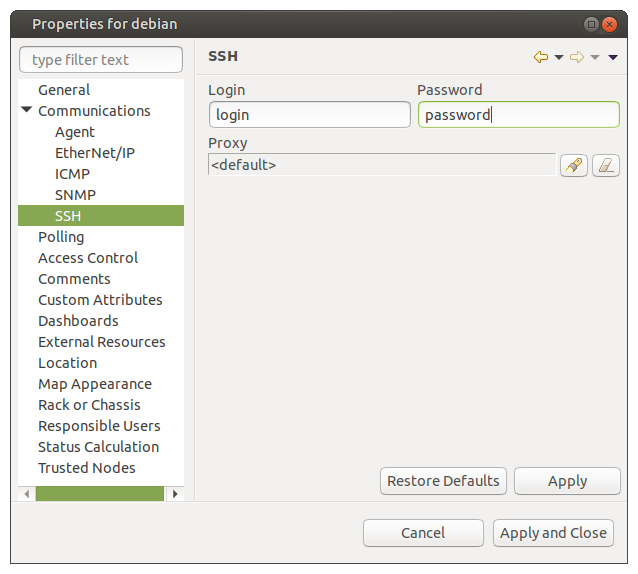
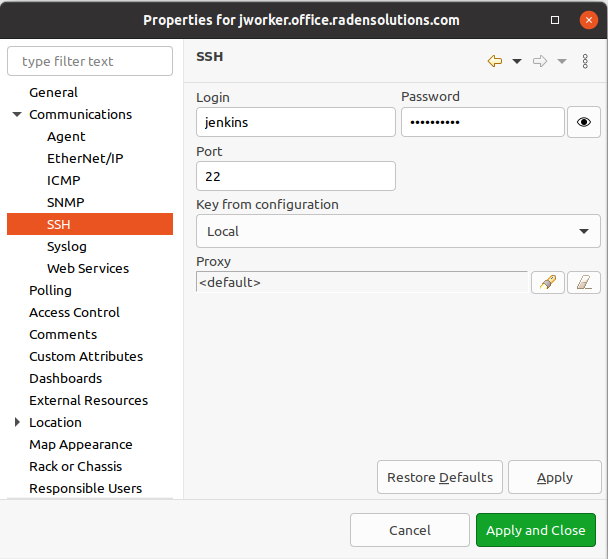
SSH documentation updated

Changed region(s): [[0.0, 0.0, 1.0, 1.0], [0.3125, 0.4562, 0.4375, 0.517]]

diff --git a/admin/ssh-monitoring.rst b/admin/ssh-monitoring.rst
@@ -4,6 +4,9 @@
 SSH monitoring
 ==============
 
+SSH configuration
+-----------------
+
 NetXMS can execute commands via SSH connection and save the output as DCI values.
 
 SSH connection are always established via agent. For this to work, ``ssh.nsm`` subagent should be enabled in agent config file.
@@ -14,7 +17,8 @@ It's also possible to specify custom location for configuration file by adding `
 If zoning is not used, agent running on |product_name| server is used for SSH connections.
 If zoning is used, zone proxies are used (and if a zone has no proxies configured, agent on |product_name| server is used as last resort).
 
-Username and password are specified in Node properties -> Communications -> SSH.
+Username and password are specified in :menuselection:`Node properties -> Communications -> SSH`. Same properties 
+page can used to specify ssh port for node, proxy for ssh polling and ssh key if required. 
 If proxy node is specified on this property page, connection will be performed via that node only.
 
 .. figure:: _images/ssh_monitoring_node_properties.png
@@ -35,5 +39,14 @@ otherwise agent of the monitored node will be used for establishing ssh connecti
 
    * - Parameter
      - Description
-   * - SSH.Command(\ *target*\ ,\ *login*\ ,\ *password*\ ,\ *command*\)
+   * - SSH.Command(\ *target*\ ,\ *login*\ ,\ *password*\ ,\ *command*\ ,\ *[pattern]*\ ,\ *[ssh_key_id]*\)
      - ``%{node_primary_ip}`` macro can be used to specify node's primary IP address as *target*.
+
+
+SSH key configuration
+---------------------
+
+SSH key can be added in :menuselection:`Configuration ->SSH key configuration` and then used in object configuration 
+for SSH connection.
+
+.. figure:: _images/ssh_key_configuration.png

diff --git a/admin/appendix.rst b/admin/appendix.rst
@@ -494,10 +494,10 @@ Server configuration file (netxmsd.conf)
       server certificate file.
     - Empty string
   * - ServerCertificatePassword
-    - Password of server certificate. Can be omitted if certificate does not use
+    - Password of server certificate. Can be omitted if certificate does not use 
       password.
     - Empty string
-- * - TrustedCertificate
+  * - TrustedCertificate
     - Certificate issued by certificate authority or self-signed CA certificate.
       If certificate chain for server certificate is longer, all upper level
       certificates should be added to configuration file by adding multiple
